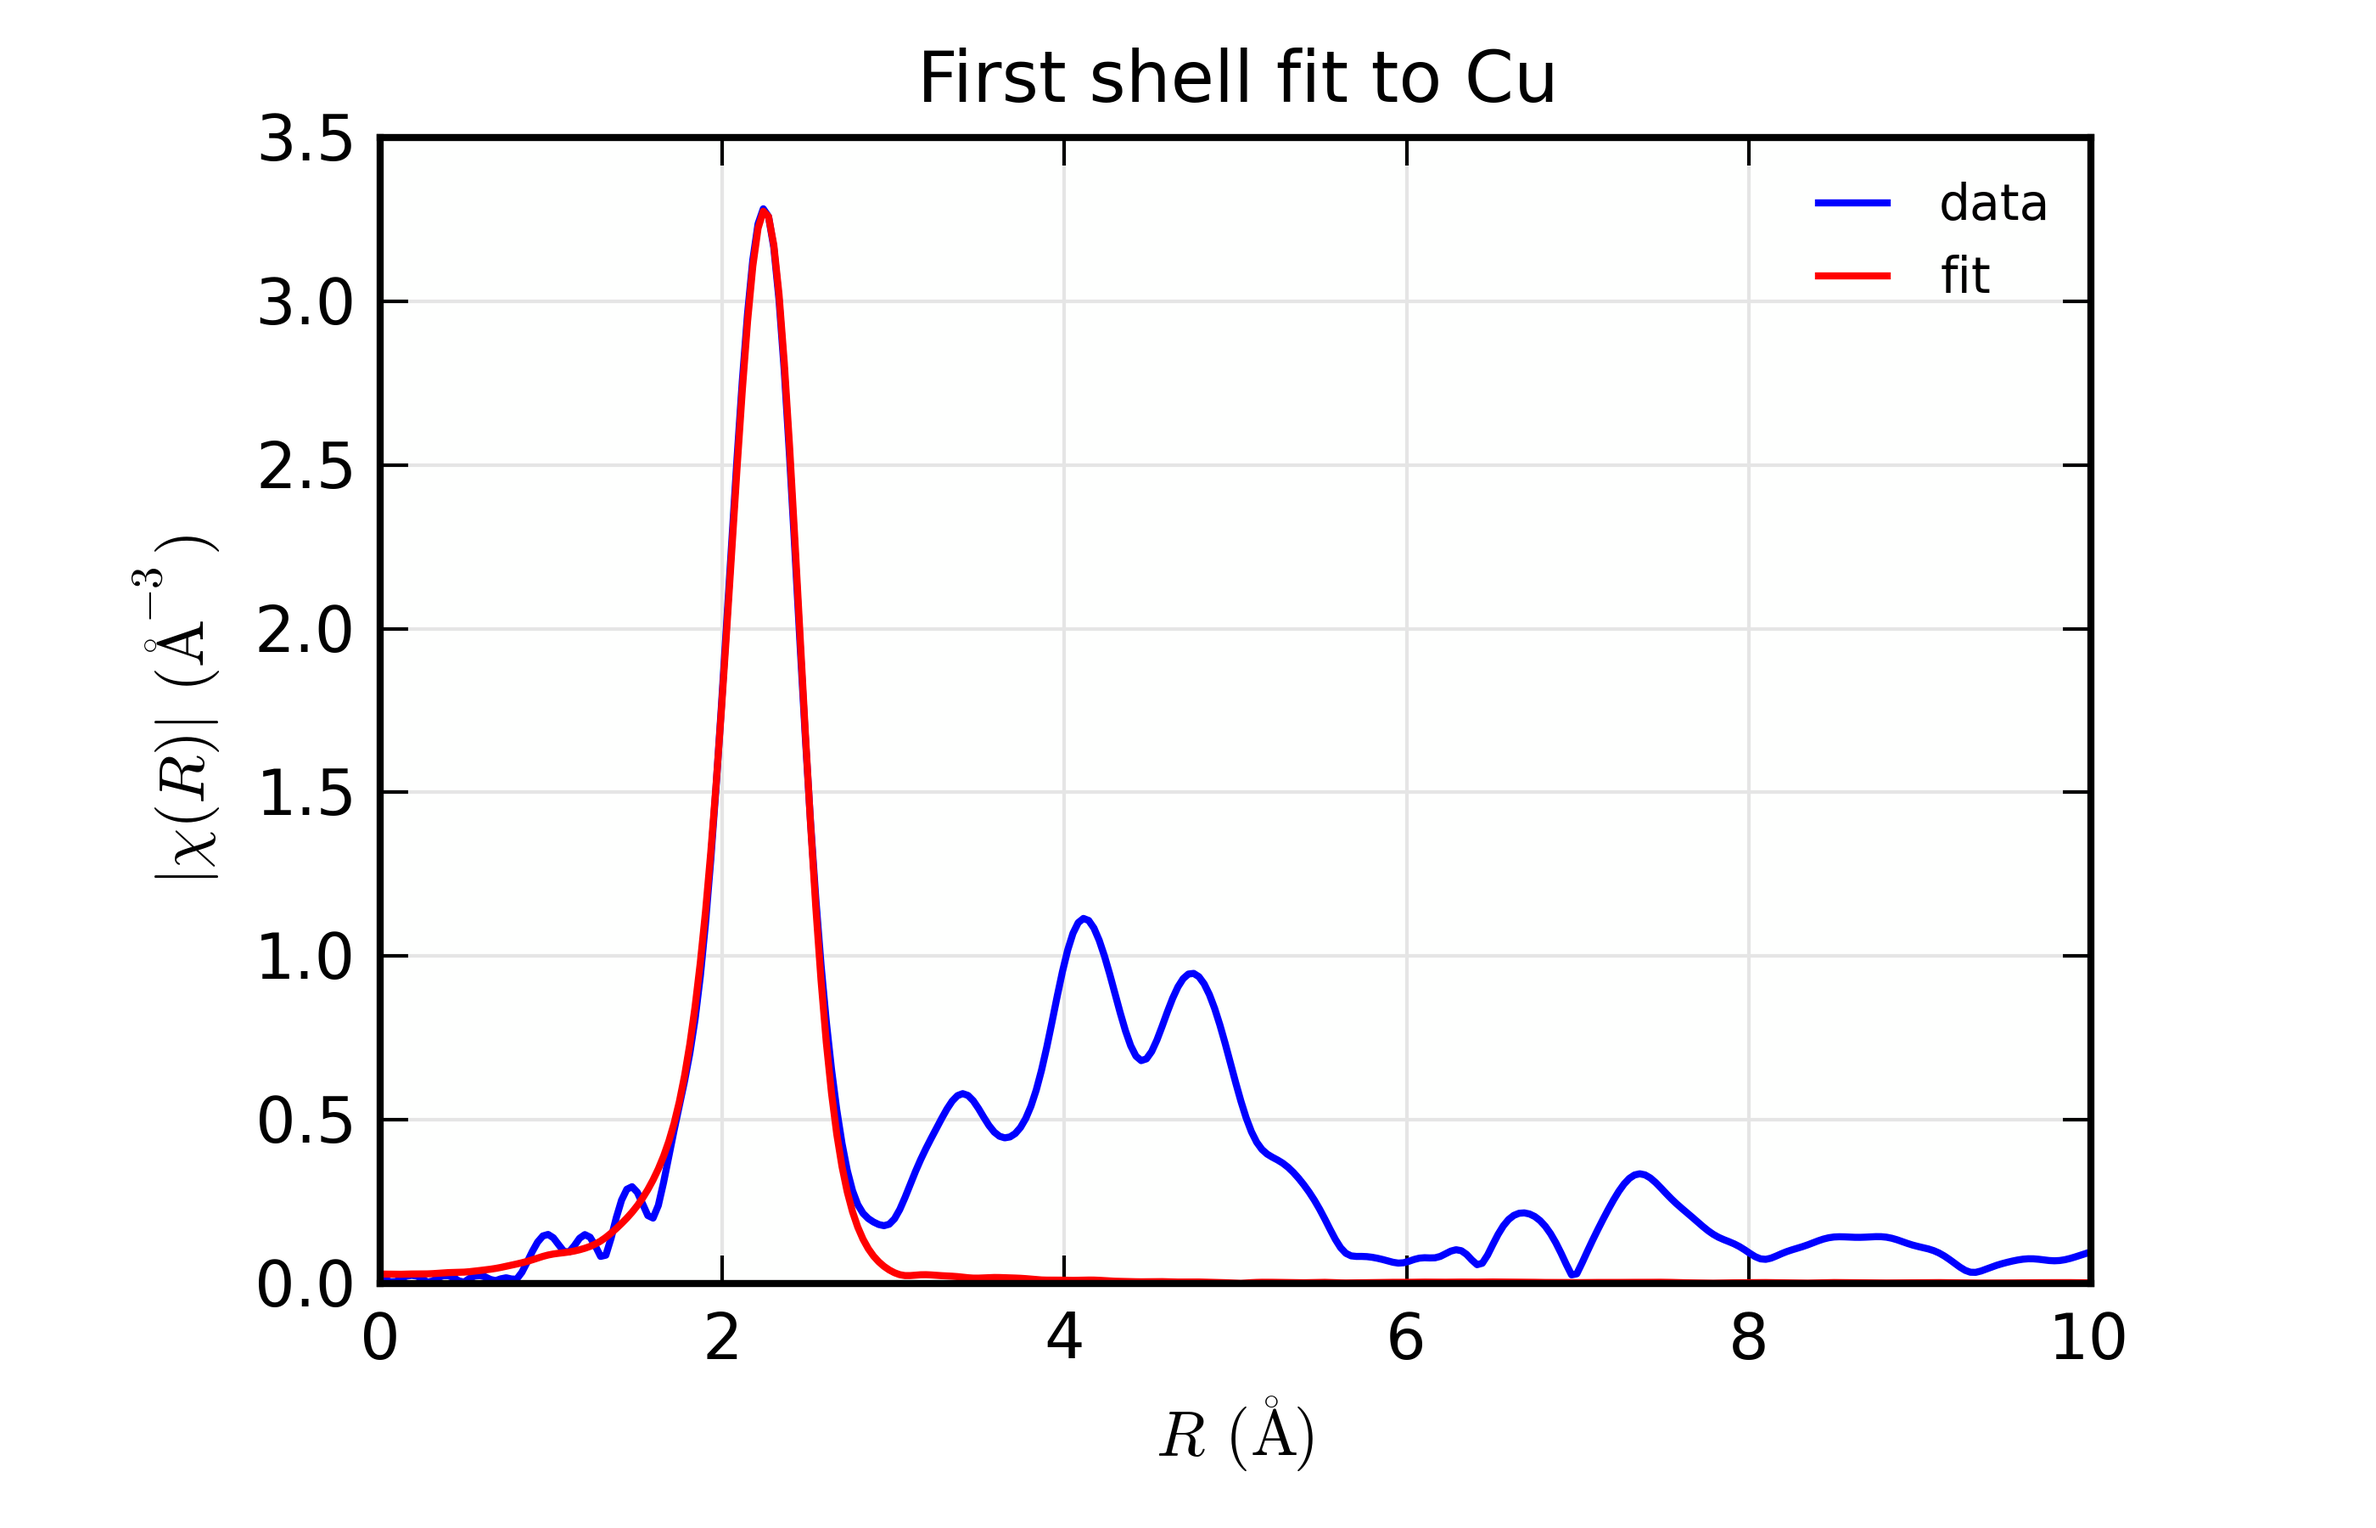
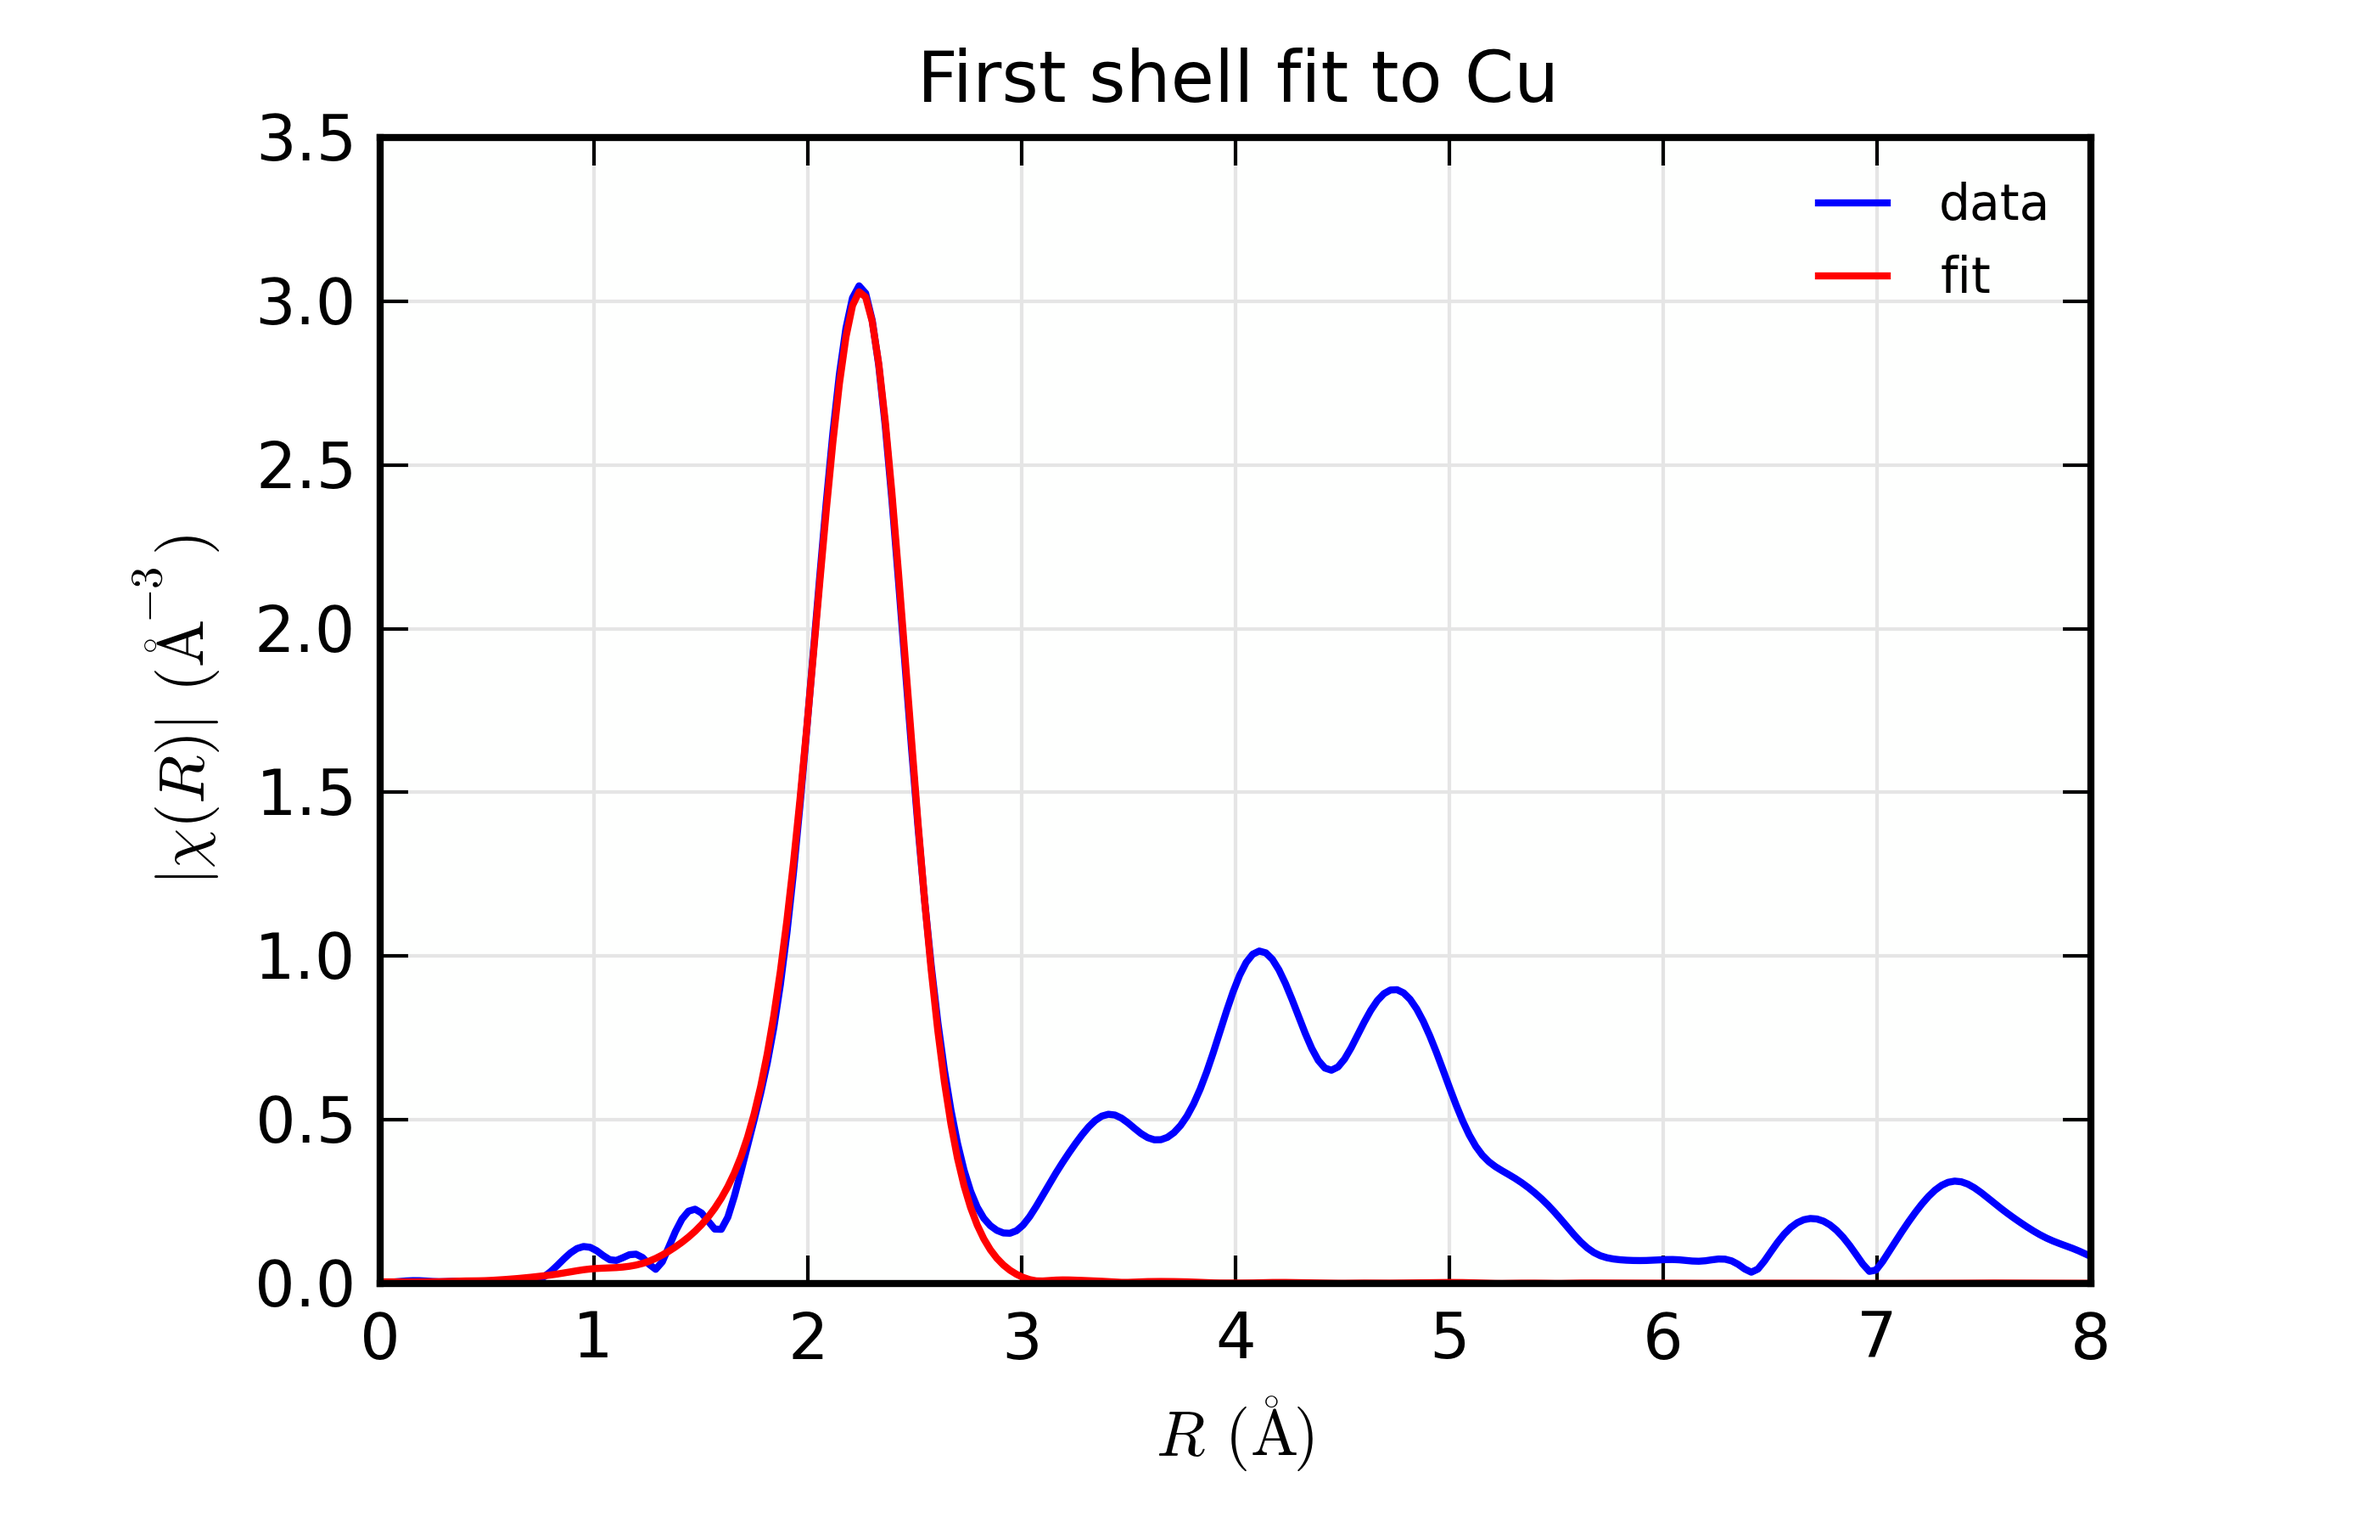
updated feffit doc and examples

diff --git a/doc/xafs/feffit.rst b/doc/xafs/feffit.rst
@@ -256,31 +256,31 @@ running this example prints out the following report::
     [[Statistics]]
        npts, nvarys       = 106, 4
        nfree, nfcn_calls  = 102, 31
-       chi_square         = 5407.674717
-       reduced chi_square = 53.016419
-
+       chi_square         = 5067.945057
+       reduced chi_square = 49.685736
+    
     [[Data]]
        n_independent      = 14.260
-       eps_k, eps_r       = 0.000178, 0.008480
+       eps_k, eps_r       = 0.000180, 0.008540
        fit space          = r
        r-range            = 1.400, 3.000
        k-range            = 3.000, 17.000
-       k window, dk       = kaiser, 3.000
+       k window, dk       = kaiser, 4.000
        k-weight           = 2
        paths used in fit  = ['feffcu01.dat']
-
+    
     [[Variables]]
-       amp            =  0.935940 +/- 0.101085   (init=  1.000000)
-       del_e0         =  3.901883 +/- 1.318563   (init=  0.100000)
-       del_r          = -0.005843 +/- 0.006784   (init=  0.000000)
-       sig2           =  0.008705 +/- 0.000795   (init=  0.002000)
-
+       amp            =  0.934846 +/- 0.097346   (init=  1.000000)
+       del_e0         =  3.861892 +/- 1.269075   (init=  0.100000)
+       del_r          = -0.006031 +/- 0.006476   (init=  0.000000)
+       sig2           =  0.008698 +/- 0.000762   (init=  0.002000)
+    
     [[Correlations]]    (unreported correlations are <  0.100)
        amp, sig2            =  0.928
        del_e0, del_r        =  0.920
-       del_r, sig2          =  0.161
-       amp, del_r           =  0.141
-
+       del_r, sig2          =  0.159
+       amp, del_r           =  0.138
+    
     [[Paths]]
        feff.dat file = feffcu01.dat
               Atom     x        y        z     ipot
@@ -288,12 +288,12 @@ running this example prints out the following report::
                Cu    0.0000, -1.8016,  1.8016  1
          reff   =  2.54780
          Degen  =  12.00000
-         S02    =  0.93594 +/-  0.10108
-         E0     =  3.90188 +/-  1.31856
-         R      =  2.54196 +/-  0.00678
-         deltar = -0.00584 +/-  0.00678
-         sigma2 =  0.00871 +/-  0.00080
-
+         S02    =  0.93485 +/-  0.09735
+         E0     =  3.86189 +/-  1.26908
+         R      =  2.54177 +/-  0.00648
+         deltar = -0.00603 +/-  0.00648
+         sigma2 =  0.00870 +/-  0.00076
+    
     =======================================================
 
 and generates the plots shown below
@@ -327,74 +327,92 @@ this:
 
 .. literalinclude:: ../../examples/feffit/doc_macros.lar
 
-and we can then replace the plot commands in the script above with::
+Using this,  we can then replace the plot commands in the script above with::
 
     run('doc_macros.lar')
     show_chifit(dset, title='First shell fit to Cu')
 
-We'll use this in the examples below.
-
+and get reproducible plots without having to copy and paste the same code
+fragment everywhere.  We'll use this in the examples below.
 
 
 Example 2: Fit 1 dataset with 3 Paths
 ~~~~~~~~~~~~~~~~~~~~~~~~~~~~~~~~~~~~~~~~~~
 
-We'll continue with the Cu data set, and add more paths.  This is fairly
-straightforward, though a main concern of XAFS analysis comes up that we
-should address.  This is that there simply is not enough freedom in the
-XAFS signal to measure all the Path Parameters independently.   Thus we
-need to be able to apply constraints to the Path Parameters.
+We'll continue with the Cu data set, and add more paths to model further
+shells.  This is fairly straightforward, but in the interest of space,
+we'll limit the example here to 3 paths to model the first two shells of
+copper.  This is a small step, but highlights a main concern with XAFS
+analysis that we need to address.  This is the fact that there simply is
+not enough freedom in the XAFS signal to measure all the possible
+adjustable Path Parameters independently.  Thus we need to be able to apply
+constraints to the Path Parameters.
 
-Here, for example, we apply the same amplitude reduction factor and the
-same :math:`E_0` shift to all Paths.  We also scale the change in distance
-by an expansion factor :math:`\alpha`, using the builtin value of half-path
-distance, ``reff``.
+Here, we use two of the most common types of constraints.  First, we apply
+the same amplitude reduction factor and the same :math:`E_0` shift to all
+Paths.  These may seem obvious for this example, but for more complicated
+examples, either including shells of mixed species or Feff Paths generated
+from different calculation, these become less obvious.  
+
+Second, we introduce a scale the change in distance by a singple expansion
+factor :math:`\alpha` (``alpha`` in the script), and using the builtin
+value of half-path distance, ``reff``, and setting ``deltar =
+'alpha*reff'`` for all Paths.  During the calculation of :math:`\chi(k)`
+for each path that happens in the fitting process, the value of ``reff``
+will be updated to the correct value for each path.  Thus, as the value of
+``alpha`` varies in the fit, each path will use its proper value for
+``reff``, so that each ``deltar`` will be different but not independent.
+This ensures that all the path lengths change in a manner consistent with
+one another.
 
 .. literalinclude:: ../../examples/feffit/doc_feffit2.lar
 
 Here we simply create ``path2`` and ``path3`` using nearly the same parameters
-as for ``path1`` -- only ``sigma2`` is allowed to vary independently for
-each path.  Note that we also increased the :math:`R` range for the fit.
+as for ``path1``.   Compared to the previous example, the other changess
+are that the  :math:`R` range for the fit has been increased so that the
+fit will try to fit the second shell, and that  ``sigma2`` is allowed to
+vary independently for each path.  
 
-The output for this fit is being::
+The output for this fit is a bit longer, being::
 
     =================== FEFFIT RESULTS ====================
     [[Statistics]]
-       npts, nvarys       = 146, 6
-       nfree, nfcn_calls  = 140, 50
-       chi_square         = 7701.538999
-       reduced chi_square = 55.010993
-
+       npts, nvarys       = 132, 6
+       nfree, nfcn_calls  = 126, 50
+       chi_square         = 4312.647261
+       reduced chi_square = 34.227359
+    
     [[Data]]
-       n_independent      = 19.608
-       eps_k, eps_r       = 0.000178, 0.008480
+       n_independent      = 17.825
+       eps_k, eps_r       = 0.000180, 0.008540
        fit space          = r
-       r-range            = 1.400, 3.600
+       r-range            = 1.400, 3.400
        k-range            = 3.000, 17.000
-       k window, dk       = kaiser, 3.000
+       k window, dk       = kaiser, 4.000
        k-weight           = 2
        paths used in fit  = ['feff0001.dat', 'feff0002.dat', 'feff0003.dat']
-
+    
     [[Variables]]
-       alpha          = -0.001970 +/- 0.002731   (init=  0.000000)
-       amp            =  0.933500 +/- 0.104437   (init=  1.000000)
-       del_e0         =  4.106844 +/- 1.337739   (init=  0.100000)
-       sig2_1         =  0.008675 +/- 0.000826   (init=  0.002000)
-       sig2_2         =  0.012120 +/- 0.002648   (init=  0.002000)
-       sig2_3         =  0.006568 +/- 0.008944   (init=  0.002000)
-
+       alpha          = -0.002436 +/- 0.001754   (init=  0.000000)
+       amp            =  0.931861 +/- 0.067134   (init=  1.000000)
+       del_e0         =  3.855156 +/- 0.871283   (init=  0.100000)
+       sig2_1         =  0.008663 +/- 0.000527   (init=  0.002000)
+       sig2_2         =  0.013728 +/- 0.002425   (init=  0.002000)
+       sig2_3         =  0.008167 +/- 0.006718   (init=  0.002000)
+    
     [[Correlations]]    (unreported correlations are <  0.100)
-       amp, sig2_1          =  0.928
-       alpha, del_e0        =  0.921
-       amp, sig2_2          =  0.323
-       sig2_1, sig2_2       =  0.301
-       amp, sig2_3          =  0.272
-       sig2_1, sig2_3       =  0.269
-       alpha, sig2_1        =  0.185
-       del_e0, sig2_3       =  0.182
-       alpha, amp           =  0.166
-       alpha, sig2_3        =  0.153
-
+       amp, sig2_1          =  0.930
+       alpha, del_e0        =  0.922
+       amp, sig2_3          =  0.249
+       sig2_1, sig2_3       =  0.247
+       amp, sig2_2          =  0.241
+       sig2_1, sig2_2       =  0.225
+       alpha, sig2_1        =  0.181
+       del_e0, sig2_3       =  0.162
+       alpha, amp           =  0.161
+       alpha, sig2_3        =  0.146
+       del_e0, sig2_2       = -0.123
+    
     [[Paths]]
        feff.dat file = feff0001.dat
               Atom     x        y        z     ipot
@@ -402,24 +420,24 @@ The output for this fit is being::
                Cu    0.0000, -1.8016,  1.8016  1
          reff   =  2.54780
          Degen  =  12.00000
-         S02    =  0.93350 +/-  0.10444
-         E0     =  4.10684 +/-  1.33774
-         R      =  2.54278 +/-  0.00696
-         deltar = -0.00502 +/-  0.00696
-         sigma2 =  0.00868 +/-  0.00083
-
+         S02    =  0.93186 +/-  0.06713
+         E0     =  3.85516 +/-  0.87128
+         R      =  2.54159 +/-  0.00447
+         deltar = -0.00621 +/-  0.00447
+         sigma2 =  0.00866 +/-  0.00053
+    
        feff.dat file = feff0002.dat
               Atom     x        y        z     ipot
                Cu    0.0000,  0.0000,  0.0000  0 (absorber)
                Cu   -3.6032,  0.0000,  0.0000  1
          reff   =  3.60320
          Degen  =  6.00000
-         S02    =  0.93350 +/-  0.10444
-         E0     =  4.10684 +/-  1.33774
-         R      =  3.59610 +/-  0.00984
-         deltar = -0.00710 +/-  0.00984
-         sigma2 =  0.01212 +/-  0.00265
-
+         S02    =  0.93186 +/-  0.06713
+         E0     =  3.85516 +/-  0.87128
+         R      =  3.59442 +/-  0.00632
+         deltar = -0.00878 +/-  0.00632
+         sigma2 =  0.01373 +/-  0.00243
+    
        feff.dat file = feff0003.dat
               Atom     x        y        z     ipot
                Cu    0.0000,  0.0000,  0.0000  0 (absorber)
@@ -427,10 +445,32 @@ The output for this fit is being::
                Cu    1.8016,  0.0000, -1.8016  1
          reff   =  3.82180
          Degen  =  48.00000
-         S02    =  0.93350 +/-  0.10444
-         E0     =  4.10684 +/-  1.33774
-         R      =  3.81427 +/-  0.01044
-         deltar = -0.00753 +/-  0.01044
-         sigma2 =  0.00657 +/-  0.00894
-
+         S02    =  0.93186 +/-  0.06713
+         E0     =  3.85516 +/-  0.87128
+         R      =  3.81249 +/-  0.00670
+         deltar = -0.00931 +/-  0.00670
+         sigma2 =  0.00817 +/-  0.00672
+    
     =======================================================
+    
+With plots of data and fits as shown below.
+
+
+.. _xafs_fig13:
+
+  .. image:: ../images/feffit_example3.png
+     :target: ../_images/feffit_example3.png
+     :width: 48 %
+  .. image:: ../images/feffit_example4.png
+     :target: ../_images/feffit_example4.png
+     :width: 48 %
+
+  Figure 13. Results for Feffit for a 3-shell fit to a spectrum from Cu
+  metal, constraining all path distances to expand with a single variable.
+
+
+Here, we show both the magnitude and real part of :math:`\chi(R)`.  The fit
+to the real part shows excellent agreement over the fit :math:`R` range of
+[1.4, 3.4] :math:`\AA`.
+
+
